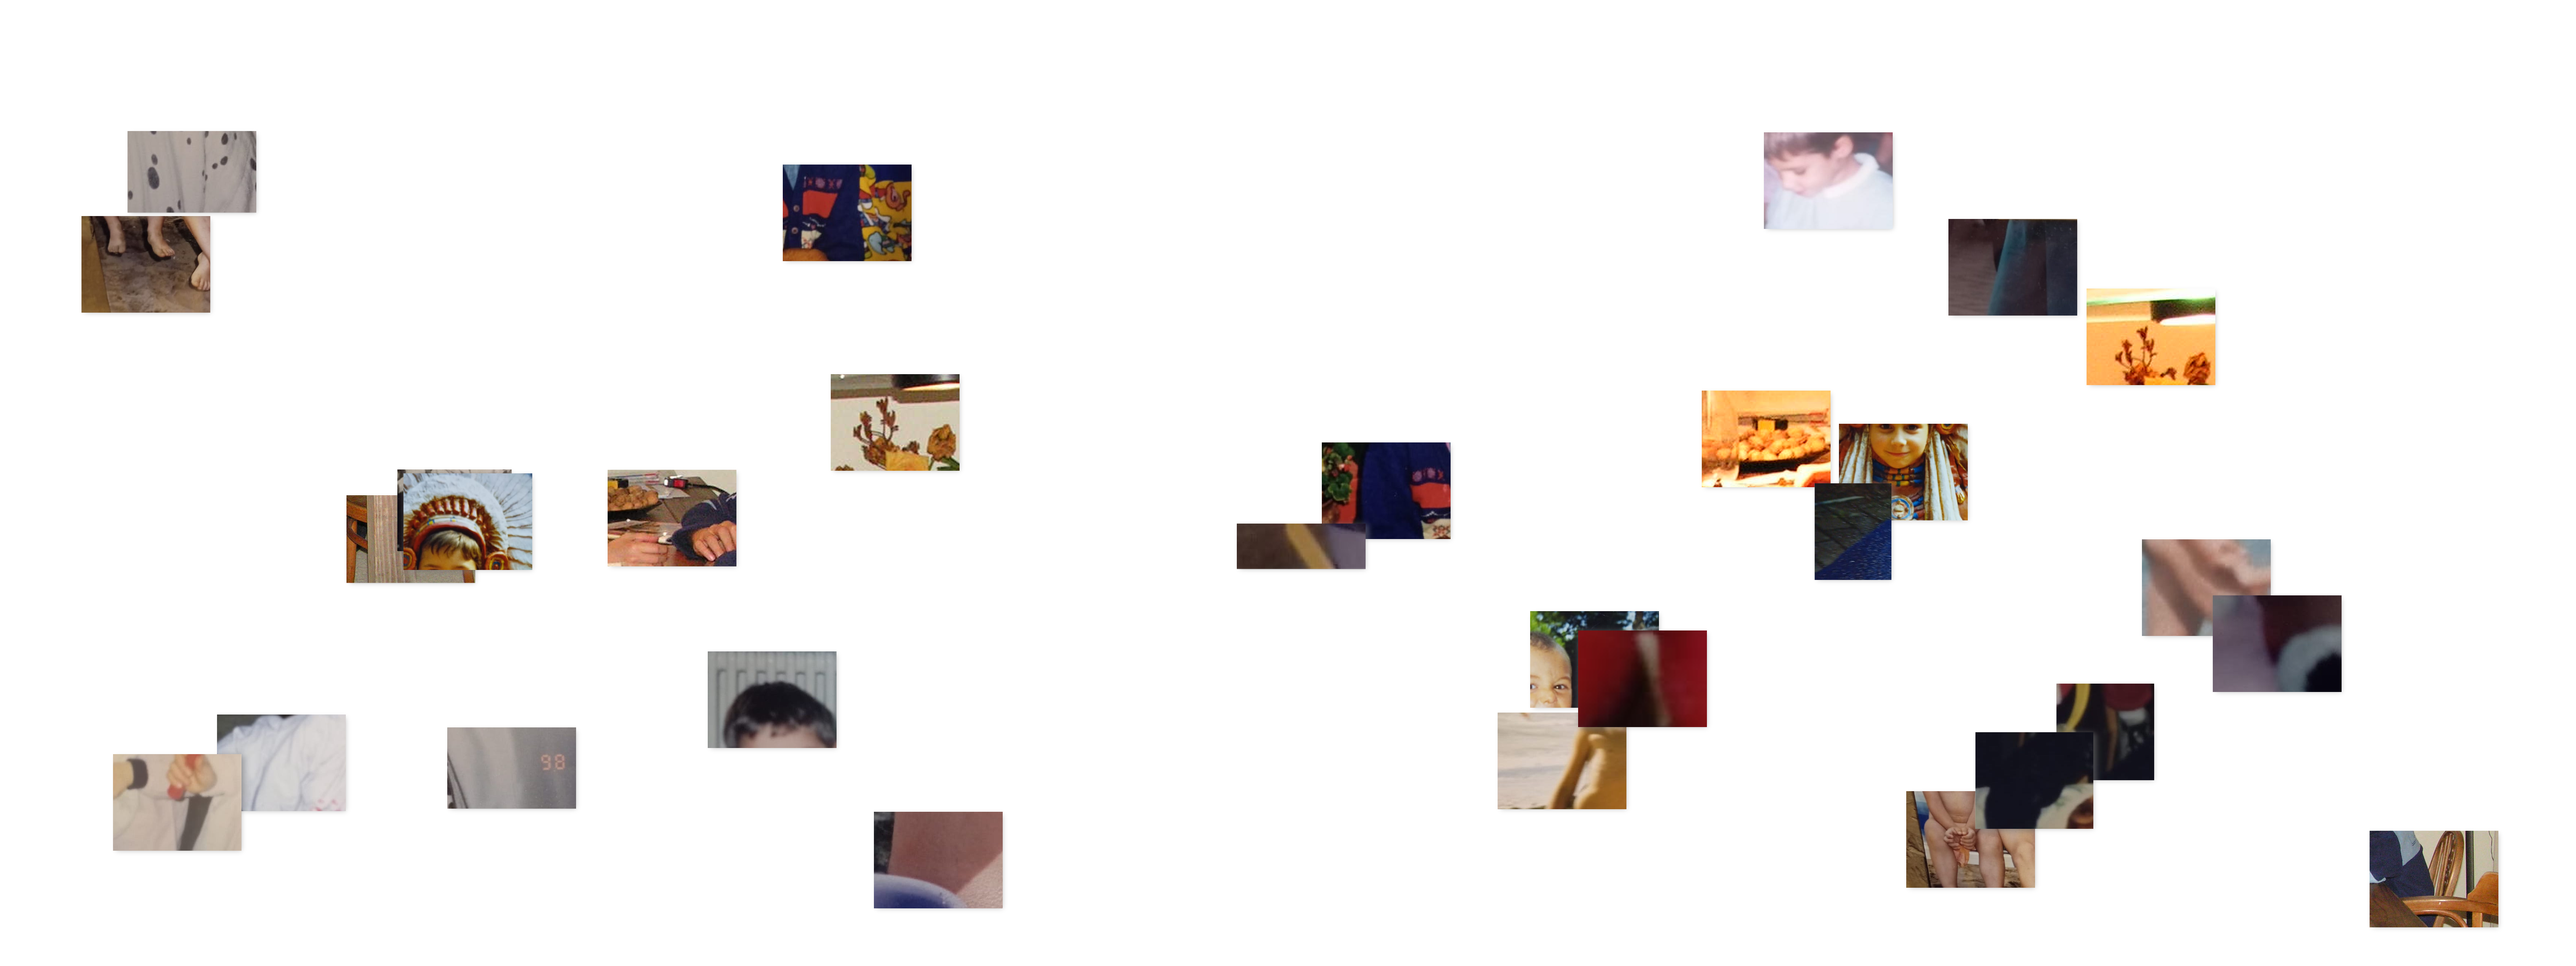
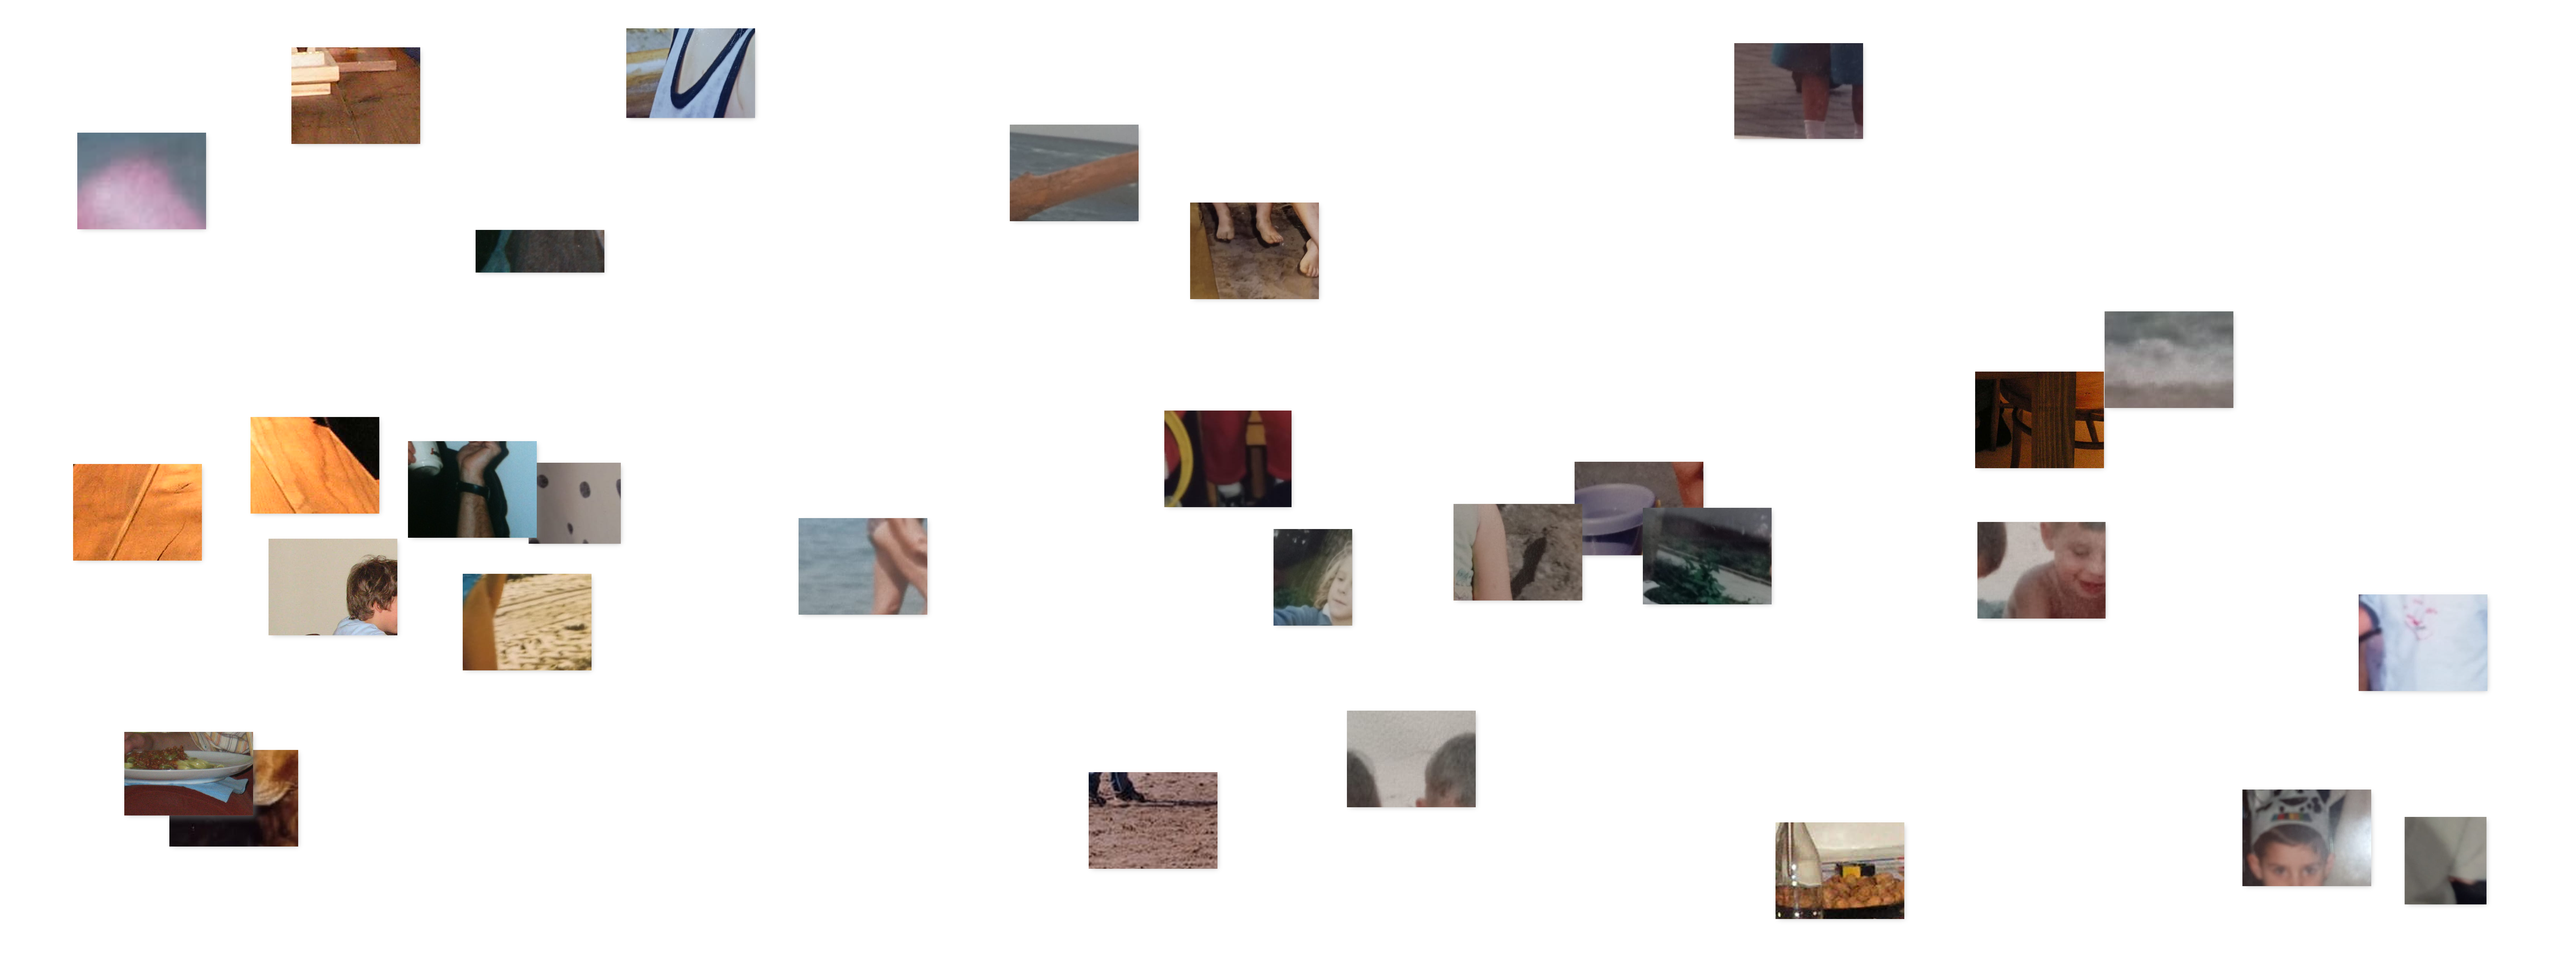
Add animated preview to random placement
Enable and wire up animated live preview for random placement. The config now enables animation by default. place.py forwards animate, delay and jitter to Canvas.place_random. Canvas.place_random signature and docs were extended to accept animate/delay/jitter; it applies jitter to positions and respects delay between placements. When animate is enabled it spawns a temporary HTTP server, writes a simple index.html and canvas.png to a temp dir, opens the browser to show a live-updating preview, updates the image as segments are placed, and cleans up the server and temp files after completion.

diff --git a/exa/childhood-app/services/service_canvas.py b/exa/childhood-app/services/service_canvas.py
@@ -228,6 +228,9 @@ class Canvas:
         count: int = 50,
         object_type: str | None = None,
         margin: int = 50,
+        animate: bool = False,
+        delay: float = 0.5,
+        jitter: int = 0,
     ) -> list[PlacedItem]:
         """Place random segments from output directory.
 
@@ -241,12 +244,26 @@ class Canvas:
             Optional filter by object type.
         margin : int
             Minimum margin from canvas edges.
+        animate : bool
+            Show live preview in browser during placement.
+        delay : float
+            Delay between placements in seconds (for animation).
+        jitter : int
+            Random position jitter in pixels.
 
         Returns
         -------
         list[PlacedItem]
             List of placed items.
         """
+        import time
+        import webbrowser
+        import http.server
+        import socketserver
+        import threading
+        import tempfile
+        import shutil
+
         from services.service_image_index import ImageIndex
 
         index = ImageIndex(output_dir)
@@ -270,6 +287,85 @@ class Canvas:
         selected = random.sample(all_segments, min(count, len(all_segments)))
         placed = []
 
+        # Setup browser preview if requested
+        if animate:
+            # Create temp directory for preview
+            preview_dir = Path(tempfile.mkdtemp(prefix="canvas_preview_"))
+            preview_image = preview_dir / "canvas.png"
+
+            # Create HTML viewer
+            html_content = f"""<!DOCTYPE html>
+<html>
+<head>
+    <title>Canvas Preview</title>
+    <style>
+        body {{
+            margin: 0;
+            padding: 20px;
+            background: #1a1a1a;
+            font-family: system-ui;
+            color: #fff;
+        }}
+        h1 {{ margin: 0 0 10px 0; font-size: 18px; }}
+        #status {{ color: #888; margin-bottom: 10px; }}
+        #canvas {{
+            max-width: 100%;
+            border: 1px solid #333;
+            background: repeating-conic-gradient(#222 0% 25%, #333 0% 50%) 50% / 20px 20px;
+        }}
+    </style>
+</head>
+<body>
+    <h1>Canvas Preview</h1>
+    <div id="status">Placing segments...</div>
+    <img id="canvas" src="canvas.png" />
+    <script>
+        const img = document.getElementById('canvas');
+        const status = document.getElementById('status');
+        let count = 0;
+        const total = {len(selected)};
+
+        function refresh() {{
+            count++;
+            status.textContent = `Placed ${{Math.min(count, total)}} / ${{total}} segments`;
+            img.src = 'canvas.png?' + Date.now();
+            if (count < total) {{
+                setTimeout(refresh, {int(delay * 1000)});
+            }} else {{
+                status.textContent = `Done! Placed ${{total}} segments`;
+            }}
+        }}
+        setTimeout(refresh, {int(delay * 1000)});
+    </script>
+</body>
+</html>"""
+            (preview_dir / "index.html").write_text(html_content)
+
+            # Save initial canvas
+            self.render().save(preview_image)
+
+            # Start simple HTTP server
+            class QuietHandler(http.server.SimpleHTTPRequestHandler):
+                def __init__(self, *args, **kwargs):
+                    super().__init__(
+                        *args, directory=str(preview_dir), **kwargs
+                    )
+
+                def log_message(self, format, *args):
+                    pass  # Suppress logging
+
+            port = 8765
+            server = socketserver.TCPServer(("", port), QuietHandler)
+            server_thread = threading.Thread(
+                target=server.serve_forever, daemon=True
+            )
+            server_thread.start()
+
+            # Open browser
+            webbrowser.open(f"http://localhost:{port}")
+            logger.info("Preview at http://localhost:%d", port)
+            time.sleep(0.5)  # Let browser load
+
         for segment_path in selected:
             if not segment_path.exists():
                 continue
@@ -282,10 +378,34 @@ class Canvas:
             y = random.randint(
                 margin, max(margin, self.height - img.height - margin)
             )
+
+            # Apply jitter
+            if jitter > 0:
+                x += random.randint(-jitter, jitter)
+                y += random.randint(-jitter, jitter)
+                x = max(0, min(x, self.width - img.width))
+                y = max(0, min(y, self.height - img.height))
+
             img.close()
 
             item = self.place(segment_path, x, y)
             placed.append(item)
+
+            # Update preview
+            if animate:
+                self.render().save(preview_image)
+                time.sleep(delay)
+
+        if animate:
+            # Final save
+            self.render().save(preview_image)
+            logger.info("Preview complete. Close browser when done.")
+            try:
+                input("Press Enter to close preview server...")
+            except KeyboardInterrupt:
+                pass
+            server.shutdown()
+            shutil.rmtree(preview_dir, ignore_errors=True)
 
         logger.info("Placed %d random segments", len(placed))
         return placed

diff --git a/exa/childhood-app/place.py b/exa/childhood-app/place.py
@@ -195,7 +195,14 @@ def main() -> int:
 
     # Random placement
     elif random_count:
-        canvas.place_random(from_dir, random_count, obj_type)
+        canvas.place_random(
+            from_dir,
+            random_count,
+            obj_type,
+            animate=animate,
+            delay=delay,
+            jitter=jitter,
+        )
 
     # Grid layout
     elif grid:
